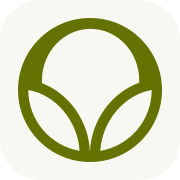
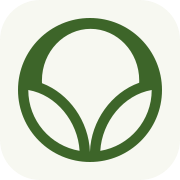
feat(styl): accent moves from olive to dollar-bill green
--accent #9cad00 -> #85bb65 (hue 66 -> 98), --accent-strong #637200 ->
#3d6529 (contrast on white 5.33 -> 6.79), --accent-soft #f0f3d6 -> #e8f3e2.
Hue 98 sits next to the site's neutral axis (66-88), so surfaces and text
stay as they are; the navy hero is the blue of the pair. Favicon follows.

Changed region(s): [[0.0833, 0.0833, 0.9167, 0.9167]]

diff --git a/src/web/styles.ts b/src/web/styles.ts
@@ -61,9 +61,9 @@ export const APP_CSS = `
   --border-strong: #d1d8c1;
   --text: #344125;
   --text-muted: #636959;
-  --accent: #9cad00;
-  --accent-strong: #637200;
-  --accent-soft: #f0f3d6;
+  --accent: #85bb65;
+  --accent-strong: #3d6529;
+  --accent-soft: #e8f3e2;
   --focus: #8b6415;
   --danger: #8a2f2f;
   --radius-sm: 10px;
@@ -569,7 +569,7 @@ tbody tr:hover td { background: color-mix(in srgb, var(--accent-soft) 38%, trans
   padding: 0.35rem 0.7rem; border: 1px solid rgba(255,255,255,0.2); border-radius: 999px;
   background: rgba(255,255,255,0.08); color: #ccd2ea; font-size: 0.8rem; font-weight: 550;
 }
-.eyebrow > span { width: 0.42rem; height: 0.42rem; border-radius: 50%; background: #c7da4f; }
+.eyebrow > span { width: 0.42rem; height: 0.42rem; border-radius: 50%; background: #85bb65; }
 .home-hero .btn { background: #fff; border-color: #fff; color: #1b1f34; box-shadow: none; }
 .home-hero .btn:hover { background: #e6e9f5; border-color: #e6e9f5; }
 .home-hero .btn.secondary { background: transparent; border-color: rgba(255,255,255,0.32); color: #dfe3f2; }
@@ -622,6 +622,7 @@ tbody tr:hover td { background: color-mix(in srgb, var(--accent-soft) 38%, trans
 .offer-soon span { color: var(--text-muted); font-size: 0.76rem; line-height: 1.5; }
 @media (max-width: 64rem) {.path-row { grid-template-columns: 1fr; } }
 .featured-grid { margin-top: 2rem; }
+.featured-grid + .section-action { margin-top: 2rem; }
 @media (min-width: 64rem) {.grid.cols-3 { grid-template-columns: repeat(3, minmax(0, 1fr)); } }
 .topic-links { display: flex; flex-wrap: wrap; justify-content: center; gap: 0.6rem; max-width: 52rem; margin: 1.5rem auto 0; padding: 0; list-style: none; }
 .topic-links li { margin: 0; }
